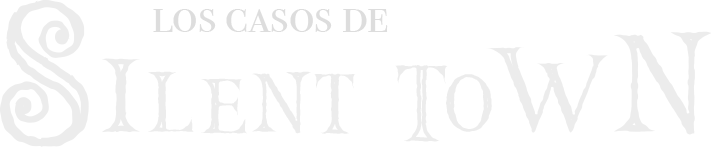
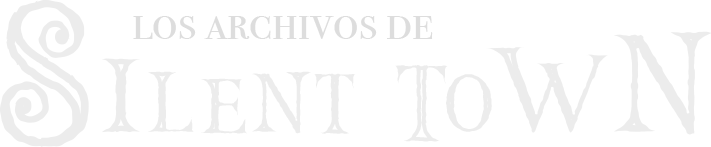
Vamo avansando

Changed region(s): [[0.1857, 0.0544, 0.6188, 0.2721]]

diff --git a/js/index.js b/js/index.js
@@ -103,8 +103,20 @@ const queryId = new URLSearchParams(window.location.search).get(QUERY_PARAM_ID);
 if (!queryId) {
     // No id - can't grant access
     console.log("No se ha detectado id")
+    showIncorrectUrlMessage();
 } else {
+    registeredCharacters['num_of_specialists'] = 0;
     fetchCharactersInfo();
+}
+
+function onAssignButtonClicked() {
+    console.log("On Assign Button Clicked");
+    $('#crystal-ball-emoji').removeClass('animated-emoji').addClass('crystal-ball-loading');
+}
+
+function showIncorrectUrlMessage() {
+    $('.welcome-loading').css('display', 'none');
+    $('.incorrect-url-container').css('display', 'block');
 }
 
 function fetchCharactersInfo() {
@@ -115,7 +127,9 @@ function fetchCharactersInfo() {
             const id = record.get(FIELD_CHARACTER_ID);
             console.log('Retrieved', id);
             registeredCharacters[id] = record;
-            registeredCharacters['length']++;
+            if (record.get(FIELD_SPECIALTY_ID)) {
+                registeredCharacters['num_of_specialists']++;
+            }
         });
 
         fetchNextPage();
@@ -130,6 +144,7 @@ function fetchCharactersInfo() {
 
         if (!characterInfo) {
             console.log("Current ID not found on characters table")
+            showIncorrectUrlMessage();
         } else {
             console.log("Character found with ID " + queryId);
             const specialty = characterInfo.get(FIELD_SPECIALTY_ID);
@@ -146,8 +161,8 @@ function fetchCharactersInfo() {
 }
 
 function getAssignedCharacter() {
-    var charNum = registeredCharacters['length'] % ALL_SPECIALTIES.length;
-    console.log("You'd be getting main character num " + charNum + " for characters " + registeredCharacters['length']);
+    var charNum = registeredCharacters['num_of_specialists'] % ALL_SPECIALTIES.length;
+    console.log("You'd be getting main character num " + charNum + " for characters " + registeredCharacters['num_of_specialists']);
     console.log("Updating your specialty to " + ALL_SPECIALTIES[charNum]['name']);
     updateCharacter(registeredCharacters[queryId].getId(), { "specialty": ALL_SPECIALTIES[charNum]['name']});
 }

diff --git a/index.html b/index.html
@@ -17,28 +17,37 @@
       </div>
 
       <div class="welcome-container">
-        <h1>Bienvenid@ a los casos de Silent Town</h1>
+        <h1>Bienvenid@ a los archivos de Silent Town</h1>
         <p>
           El pueblo fantasma de Silent Town ha sido escenario de extrañas desgracias a lo largo de su historia. Si has
-          llegado hasta aquí es porque contamos con tu ayuda para desentramar los misteriosos casos de Silent Town.
+          llegado hasta aquí es porque contamos con tu ayuda para desentramar los misteriosos archivos de Silent Town.
         </p>
       </div>
 
-      <div class="loading">
+      <div class="loading welcome-loading">
         <span id="one">🎃</span>
         <span id="two">🎃</span>
         <span id="three">🎃</span>
       </div>
       
       <div class="incorrect-url-container">
-        <div class="animated-emoji">💀</div>
+        <div style="font-size:6em">🚫</div>
         <p>
-          Parece que tu URL no es correcta. Contacta con los game masters
+          Para acceder a los archivos de Silent Town debes usar tu dirección personal. Si tienes cualquier problema,
+          contactar con los game masters.
         </p>
       </div>
 
       <div class="assignation-container">
-        <button>Empezar</button>
+        <p>
+          Antes de unirte al grupo de investigación, necesitarás saber cuál es tu especialidad en parapsicología. Para
+          ello, pulsa el botón bajo la bola de cristal. Pero cuidado, cuándo lo pulses puede afectar a tu destino y, una
+          vez hecho, no habrá vuelta atrás. ¿Estás preparad@?
+        </p>
+        <div id="crystal-ball-emoji" class="animated-emoji big-emoji crystal-ball-loading">
+          🔮
+        </div>
+        <button onclick="onAssignButtonClicked()">Convertirme en parapsicólogo</button>
       </div>
     
       <!-- <div class="animated-emoji">

diff --git a/style.css b/style.css
@@ -35,6 +35,7 @@ main h1 {
 
 .welcome-container {
     margin-bottom: 20px;
+    text-align: center;
 }
 
 .welcome-container p {
@@ -42,11 +43,17 @@ main h1 {
 }
 
 .incorrect-url-container {
+    text-align: center;
     display: none;
 }
 
+.incorrect-url-container p {
+    color: #C12323;
+}
+
 .assignation-container {
-    display: none;
+    text-align: center;
+    /* display: none; */
 }
 
 .form-container {
@@ -104,6 +111,7 @@ button {
 .loading {
     text-align: center;
     padding: 50px;
+    display: none;
 }
 
 .loading span {
@@ -128,23 +136,40 @@ button {
     animation-delay: 0.4s;
 }
 
+@keyframes crystal-ball-blinking-keyframes {
+    0% {
+        opacity: 100%;
+    }
+    25% {
+        opacity: 0%;
+    }
+    50% {
+        opacity: 100%;
+    }
+}
+
+.crystal-ball-loading {
+    animation-name: crystal-ball-blinking-keyframes;
+    animation-duration: 2s;
+    animation-iteration-count: infinite;
+    animation-timing-function: ease-in-out;
+}
 
 
 
 @keyframes emoji-keyframes {
     from {
-        bottom: 0px;
+        bottom: -25px;
         opacity: 0%;
     }
     to {
-        bottom: 25px;
+        bottom: 0px;
         opacity: 100%;
     }
 }
 
 .animated-emoji {
     position: relative;
-    font-size: 8em;
     text-align: center;
     bottom: 0px;
     opacity: 0%;
@@ -154,4 +179,8 @@ button {
     animation-iteration-count: 1;
     animation-timing-function: ease-in-out;
     animation-fill-mode: forwards;
+}
+
+.big-emoji {
+    font-size: 8em;
 }
